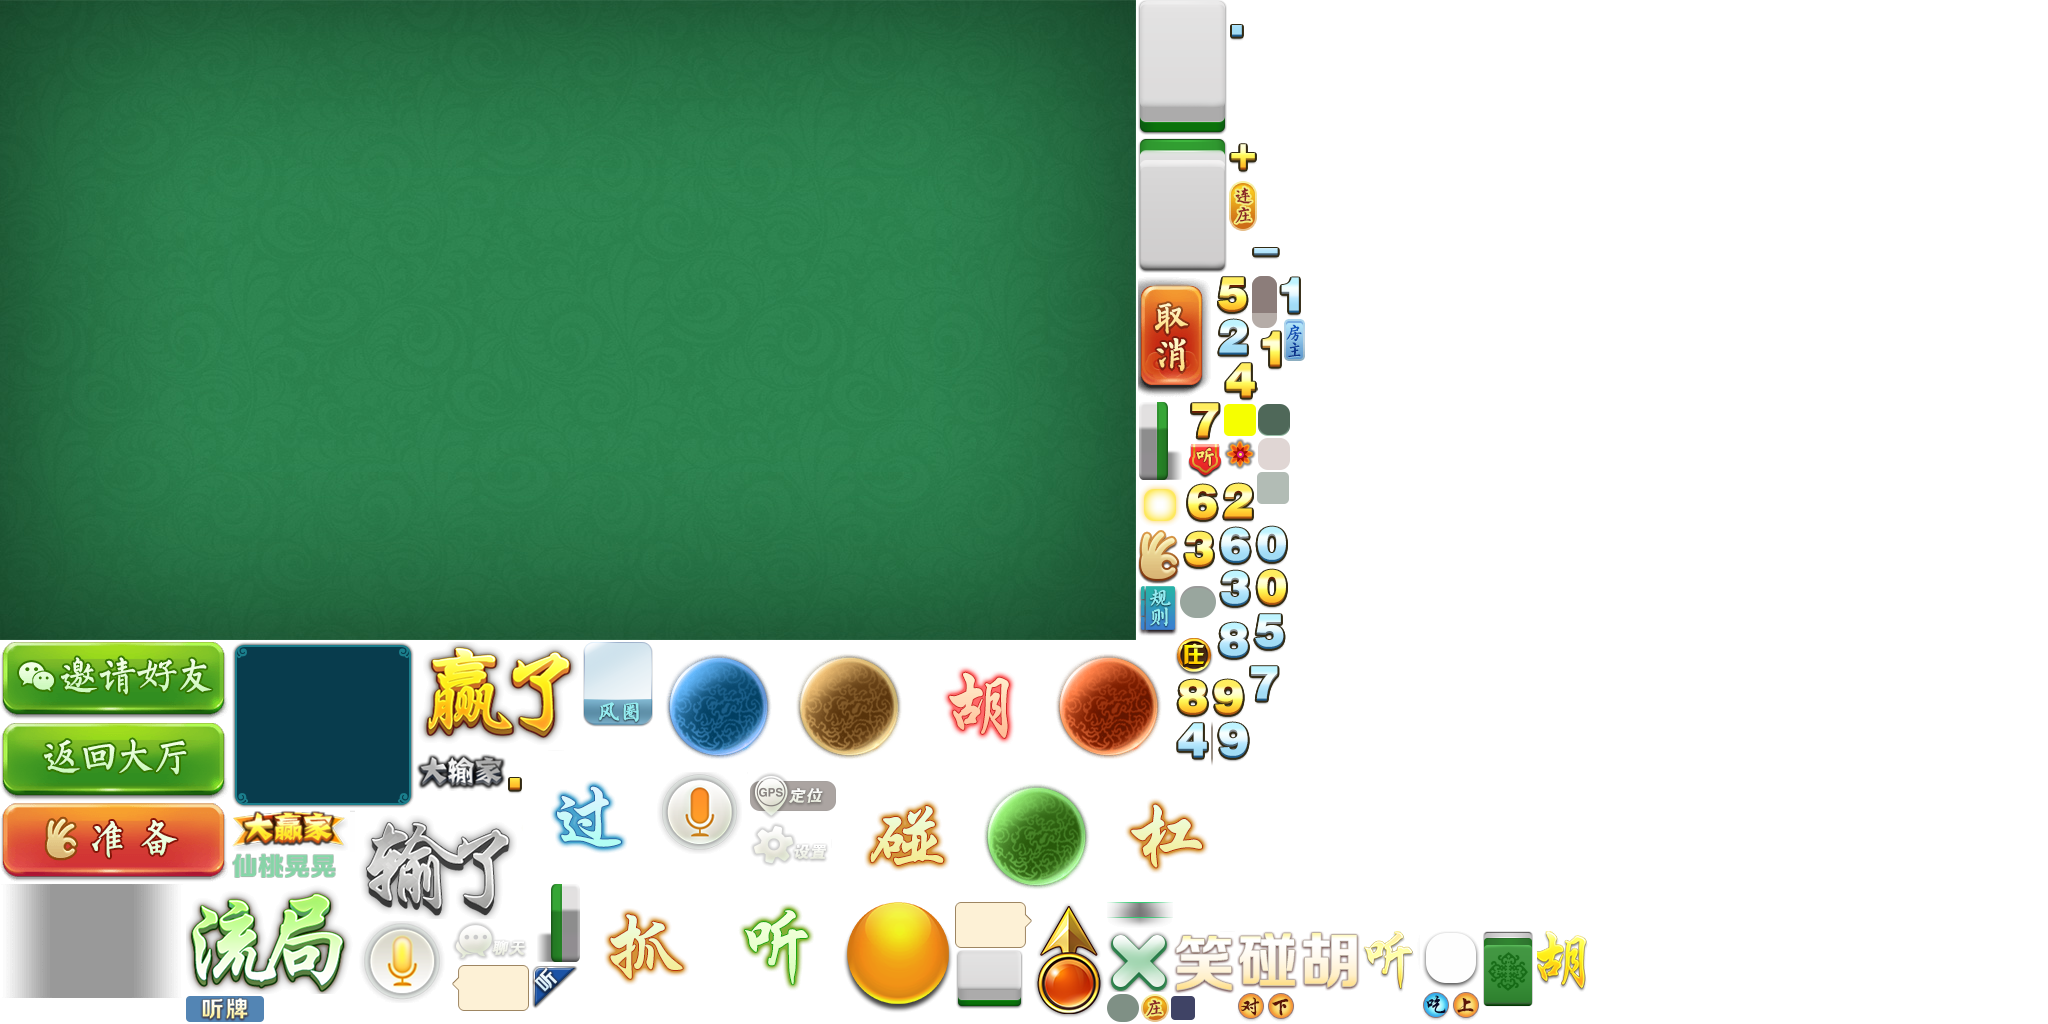
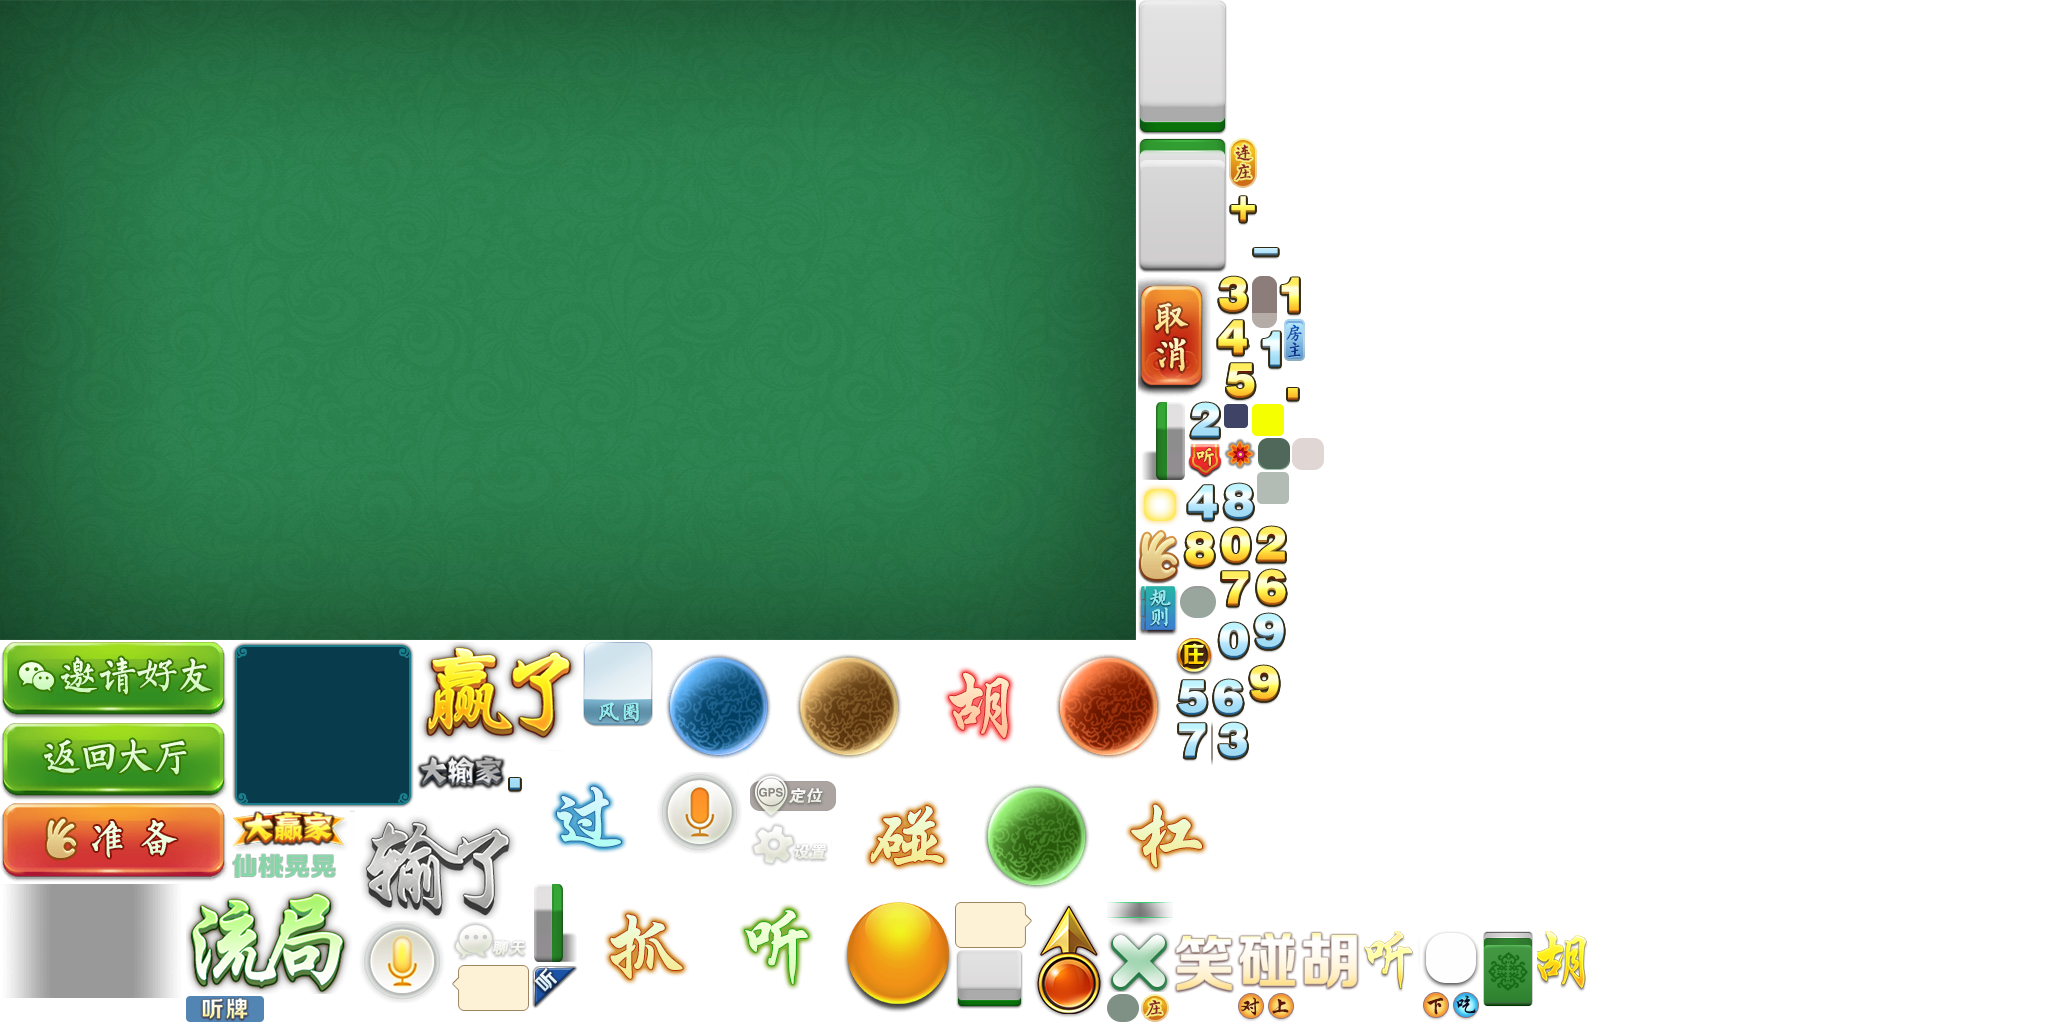
杠后 牌乱

diff --git a/assets/Script/modules/gameb/handlers/HandlerMsgActionOPAck.ts b/assets/Script/modules/gameb/handlers/HandlerMsgActionOPAck.ts
@@ -15,7 +15,8 @@ export namespace HandlerMsgActionOPAck {
             player.removeTileFromHand(pAck.cards[0]);
         }
         player.addMeld(pAck);
-        player.hand2UI(true); //手牌列表更新UI
+        // player.sortHands(true); // 新抽牌，必然有14张牌，因此最后一张牌不参与排序
+        player.hand2UI(false); //手牌列表更新UI
         const contributorPlayer = <Player>room.getPlayerByUserID(`${pAck.target_id}`);
         const a = pAck.cards[0];
         contributorPlayer.removeLatestDiscarded(a); //从贡献者（出牌者）的打出牌列表中移除最后一张牌
@@ -54,7 +55,8 @@ export namespace HandlerMsgActionOPAck {
             contributorPlayer.removeLatestDiscarded(mahjong); //从贡献者（出牌者）的打出牌列表中移除最后一张牌
             contributorPlayer.discarded2UI(false, false); //更新贡献者的打出牌列表到UI
         }
-        player.hand2UI(true); //手牌列表更新UI
+        // player.sortHands(false); // 新抽牌，必然有14张牌，因此最后一张牌不参与排序
+        player.hand2UI(false); //手牌列表更新UI
     };
     const kong = (room: RoomInterface, player: Player, pAck: proto.casino_xtsj.packet_sc_op_ack): number => {
         if (pAck.type === OP_TYPE.XTSJ_OP_TYPE_DIANXIAO || pAck.type === OP_TYPE.XTSJ_OP_TYPE_MENGXIAO ||

diff --git a/assets/Script/modules/gameb/PlayerView.ts b/assets/Script/modules/gameb/PlayerView.ts
@@ -1,5 +1,5 @@
 import { RoomHost } from "../lobby/interface/LInterfaceExports";
-import { CommonFunction, Dialog } from "../lobby/lcore/LCoreExports";
+import { CommonFunction, Dialog, Logger } from "../lobby/lcore/LCoreExports";
 import { proto as protoHH } from "../lobby/protoHH/protoHH";
 import { GameRules } from "./GameRules";
 import { ClickCtrl, PlayerInterface, playerStatus, TypeOfOP } from "./PlayerInterface";

diff --git a/assets/Script/modules/gameb/Player.ts b/assets/Script/modules/gameb/Player.ts
@@ -328,7 +328,7 @@ export class Player {
         if (this.isMe()) {
             //隐藏牌组
             this.playerView.hideHands();
-            this.playerView.showHandsForMe(true);
+            this.playerView.showHandsForMe(false);
         }
 
         //播放对应音效
